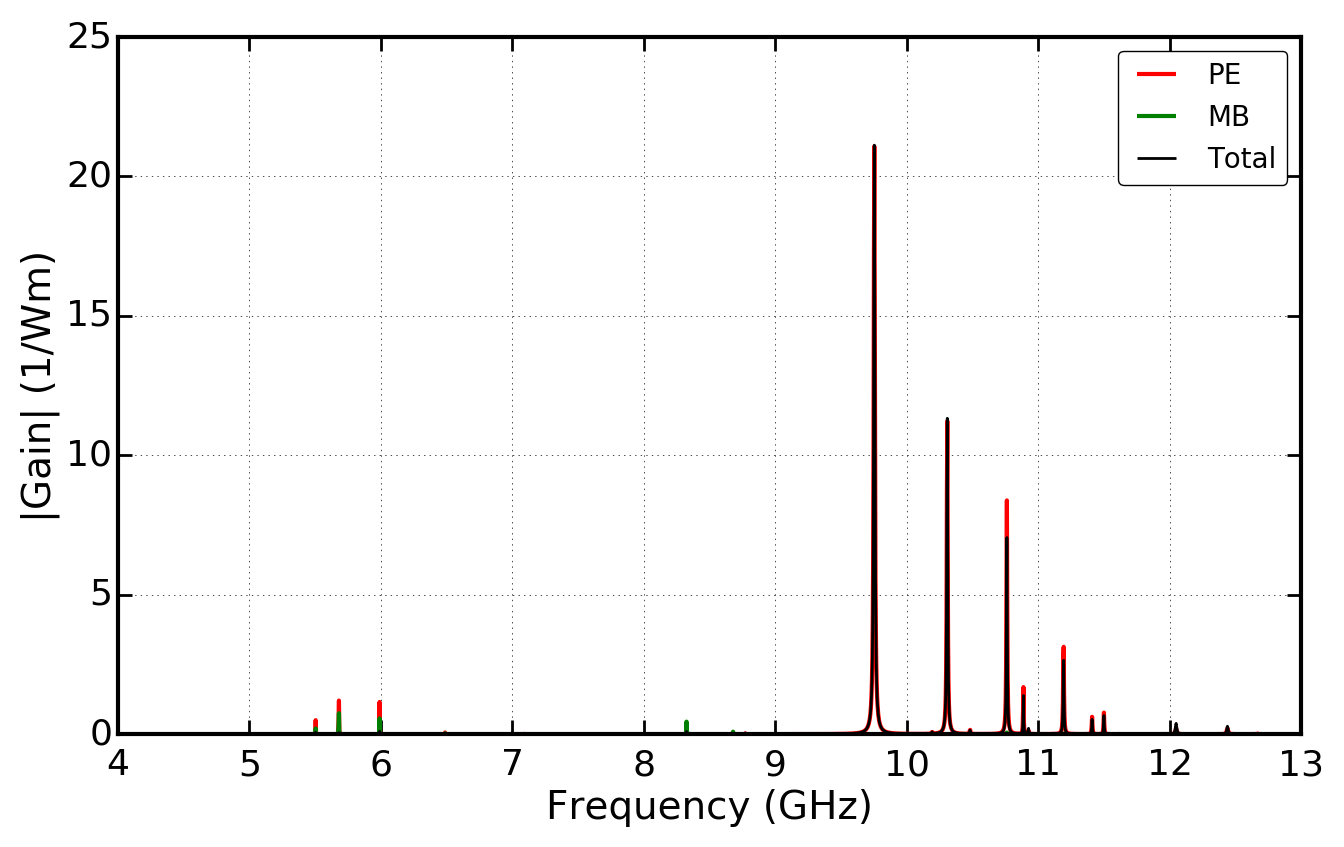
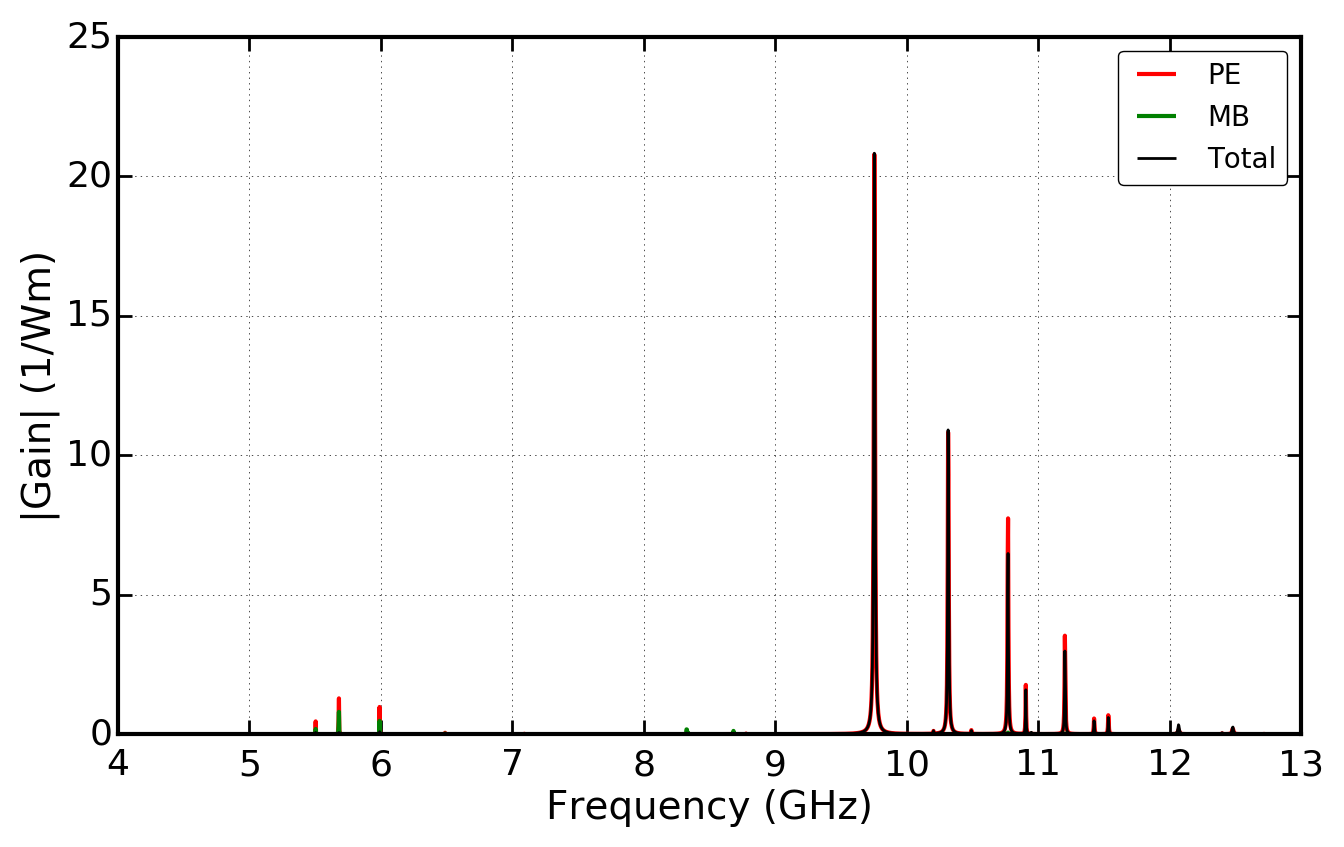
Almost completed lit examples.

Changed region(s): [[0.6875, 0.5525, 0.7188, 0.8595], [0.75, 0.7674, 0.8438, 0.8595], [0.625, 0.7367, 0.6562, 0.8595]]

diff --git a/backend/plotting.py b/backend/plotting.py
@@ -116,7 +116,7 @@ def gain_spectra(sim_AC, SBS_gain, SBS_gain_PE, SBS_gain_MB, linewidth_Hz, k_AC,
     else: raise NotImplementedError("Spectrum plotting for limited AC modes not implemented.")
     return_interp_values = interp_values
     if mode_comps:
-        plt.plot(interp_grid, np.abs(interp_values), 'k', linewidth=3, label="Total")
+        plt.plot(interp_grid, np.abs(interp_values), 'b', linewidth=3, label="Total")
         plt.legend(loc=0)
         if freq_min and freq_max:
             plt.xlim(freq_min,freq_max)
@@ -153,7 +153,7 @@ def gain_spectra(sim_AC, SBS_gain, SBS_gain_PE, SBS_gain_MB, linewidth_Hz, k_AC,
                     interp_spectrum = np.interp(interp_grid, freq_list_GHz, gain_list)
                     interp_values += interp_spectrum
             else: raise NotImplementedError("Spectrum plotting for limited AC modes not implemented.")
-            plt.plot(interp_grid, np.abs(10*np.log10(np.exp(abs(interp_values)*6.5e-3))), 'k', linewidth=3, label="Total")
+            plt.plot(interp_grid, np.abs(10*np.log10(np.exp(abs(interp_values)*6.5e-3))), 'b', linewidth=3, label="Total")
             if save_txt:
                 save_array = (interp_grid, 10*np.log10(np.exp(abs(interp_values)*6.5e-3)))
                 np.savetxt('%(pre)sgain_spectra-mode_comps-dB%(add)s-Total.csv' 
@@ -196,7 +196,7 @@ def gain_spectra(sim_AC, SBS_gain, SBS_gain_PE, SBS_gain_MB, linewidth_Hz, k_AC,
     else: raise NotImplementedError("Spectrum plotting for limited AC modes not implemented.")
     plt.plot(interp_grid, np.abs(interp_values_PE), 'r', linewidth=3, label="PE")
     plt.plot(interp_grid, np.abs(interp_values_MB), 'g', linewidth=3, label="MB")
-    plt.plot(interp_grid, np.abs(interp_values), 'k', linewidth=2, label="Total")
+    plt.plot(interp_grid, np.abs(interp_values), 'b', linewidth=2, label="Total")
     plt.legend(loc=0)
     if freq_min and freq_max:
         plt.xlim(freq_min,freq_max)
@@ -226,7 +226,7 @@ def gain_spectra(sim_AC, SBS_gain, SBS_gain_PE, SBS_gain_MB, linewidth_Hz, k_AC,
     if dB:
         plt.figure()
         plt.clf()
-        plt.plot(interp_grid, np.abs(10*np.log10(np.exp(abs(interp_values)*6.5e-3))), 'k', linewidth=3, label="Total")
+        plt.plot(interp_grid, np.abs(10*np.log10(np.exp(abs(interp_values)*6.5e-3))), 'b', linewidth=3, label="Total")
         plt.plot(interp_grid, np.abs(10*np.log10(np.exp(abs(interp_values_PE)*6.5e-3))), 'r', linewidth=3, label="PE")
         plt.plot(interp_grid, np.abs(10*np.log10(np.exp(abs(interp_values_MB)*6.5e-3))), 'g', linewidth=3, label="MB")
         plt.legend(loc=0)

diff --git a/lit_examples/simo-lit_02-Laude-AIPAdv_2013-silicon.py b/lit_examples/simo-lit_02-Laude-AIPAdv_2013-silicon.py
@@ -29,8 +29,8 @@ start = time.time()
 
 # Geometric Parameters - all in nm.
 wl_nm = 1550
-unitcell_x = 7*wl_nm
-unitcell_y = unitcell_x
+unitcell_x = 4*wl_nm
+unitcell_y = unitcell_x*2/3
 inc_a_x = 1500
 inc_a_y = 1000
 inc_shape = 'rectangular'
@@ -58,9 +58,9 @@ n_eff = 3.4
 sim_EM_pump = wguide.calc_EM_modes(num_modes_EM_pump, wl_nm, n_eff=n_eff)
 sim_EM_Stokes = mode_calcs.bkwd_Stokes_modes(sim_EM_pump)
 
-plotting.plt_mode_fields(sim_EM_pump, xlim_min=0.4, xlim_max=0.4, ivals=[0],
-                         ylim_min=0.4, ylim_max=0.4, EM_AC='EM_E', 
-                         prefix_str=prefix_str, pdf_png='png')
+# plotting.plt_mode_fields(sim_EM_pump, xlim_min=0.2, xlim_max=0.2, ivals=[0],
+#                          ylim_min=0.2, ylim_max=0.2, EM_AC='EM_E', 
+#                          prefix_str=prefix_str, pdf_png='png')
 
 # Print the wavevectors of EM modes.
 print('k_z of EM modes \n', np.round(np.real(sim_EM_pump.Eig_values), 4))
@@ -76,7 +76,7 @@ shift_Hz = 31e9
 # Calculate Acoustic modes.
 sim_AC = wguide.calc_AC_modes(num_modes_AC, k_AC, EM_sim=sim_EM_pump, shift_Hz=shift_Hz)
 
-plotting.plt_mode_fields(sim_AC, EM_AC='AC', prefix_str=prefix_str, pdf_png='png')
+# plotting.plt_mode_fields(sim_AC, EM_AC='AC', prefix_str=prefix_str, pdf_png='png')
 
 # Print the frequencies of AC modes.
 print('Freq of AC modes (GHz) \n', np.round(np.real(sim_AC.Eig_values)*1e-9, 4))
@@ -91,7 +91,7 @@ SBS_gain, SBS_gain_PE, SBS_gain_MB, linewidth_Hz, Q_factors, alpha = integration
 freq_min = 20  # GHz
 freq_max = 45  # GHz
 plotting.gain_spectra(sim_AC, SBS_gain, SBS_gain_PE, SBS_gain_MB, linewidth_Hz, k_AC,
-    EM_ival_pump, EM_ival_Stokes, AC_ival, freq_min=freq_min, freq_max=freq_max)
+    EM_ival_pump, EM_ival_Stokes, AC_ival, freq_min=freq_min, freq_max=freq_max, dB=True)
 
 end = time.time()
 print("\n Simulation time (sec.)", (end - start))

diff --git a/lit_examples/simo-lit_03-Beugnot-NatComm_2014.py b/lit_examples/simo-lit_03-Beugnot-NatComm_2014.py
@@ -30,7 +30,7 @@ num_cores = 5
 
 # Geometric Parameters - all in nm.
 wl_nm = 1550
-unitcell_x = 5*wl_nm
+unitcell_x = 4*wl_nm
 unitcell_y = unitcell_x
 inc_shape = 'circular'
 
@@ -60,7 +60,7 @@ def modes_n_gain(inc_a_x):
     wguide = objects.Struct(unitcell_x,inc_a_x,unitcell_y,inc_a_y,inc_shape,
                             material_bkg=materials.Vacuum,
                             material_a=materials.Si_2016_Smith,
-                            lc_bkg=3, lc2=2000.0, lc3=1000.0)
+                            lc_bkg=4, lc2=2000.0, lc3=1000.0)
 
     sim_EM_pump = wguide.calc_EM_modes(num_modes_EM_pump, wl_nm, n_eff=n_eff)
     sim_EM_Stokes = mode_calcs.bkwd_Stokes_modes(sim_EM_pump)
@@ -89,7 +89,7 @@ for w, width_interp in enumerate(width_objs):
 
 fig = plt.figure()
 ax1 = fig.add_subplot(1,1,1)
-blah = ax1.matshow(gain_array, aspect='auto', interpolation = 'none')
+blah = ax1.matshow(gain_array, aspect='auto', interpolation='none')
 
 num_xticks = 5
 num_yticks = 5
@@ -101,7 +101,7 @@ ax1.set_yticklabels(["%4.0f" % i for i in np.linspace(freq_min,freq_max,num_ytic
 
 plt.xlabel(r'Width ($\mu m$)')
 plt.ylabel('Frequency (GHz)')
-plt.savefig('gain-width_scan.pdf')
+plt.savefig('lit_03-gain-width_scan.pdf')
 plt.close()
 
 end = time.time()

diff --git a/lit_examples/simo-lit_01-Laude-AIPAdv_2013-silica.py b/lit_examples/simo-lit_01-Laude-AIPAdv_2013-silica.py
@@ -57,9 +57,9 @@ n_eff = 1.3
 sim_EM_pump = wguide.calc_EM_modes(num_modes_EM_pump, wl_nm, n_eff=n_eff)
 sim_EM_Stokes = mode_calcs.bkwd_Stokes_modes(sim_EM_pump)
 
-plotting.plt_mode_fields(sim_EM_pump, xlim_min=0.4, xlim_max=0.4, ivals=[0],
-                         ylim_min=0.4, ylim_max=0.4, EM_AC='EM_E', 
-                         prefix_str=prefix_str, pdf_png='png')
+# plotting.plt_mode_fields(sim_EM_pump, xlim_min=0.4, xlim_max=0.4, ivals=[0],
+#                          ylim_min=0.4, ylim_max=0.4, EM_AC='EM_E', 
+#                          prefix_str=prefix_str, pdf_png='png')
 
 # Print the wavevectors of EM modes.
 print('k_z of EM modes \n', np.round(np.real(sim_EM_pump.Eig_values), 4))
@@ -91,7 +91,7 @@ freq_min = 4  # GHz
 freq_max = 13  # GHz
 plotting.gain_spectra(sim_AC, SBS_gain, SBS_gain_PE, SBS_gain_MB, linewidth_Hz, k_AC,
     EM_ival_pump, EM_ival_Stokes, AC_ival, freq_min=freq_min, freq_max=freq_max,
-    prefix_str=prefix_str)
+    prefix_str=prefix_str, dB=True)
 
 # Construct the SBS gain spectrum, built from Lorentzian peaks of the individual modes.
 freq_min = 9.5  # GHz

diff --git a/lit_examples/simo-lit_09-Morrison-Optica_2017.py b/lit_examples/simo-lit_09-Morrison-Optica_2017.py
@@ -1,6 +1,8 @@
-""" Calculate the backward SBS gain for modes in a
-    chalcogenide rib waveguide on a Si slab, 
-    coated in SiO2, surrounded in air.
+""" Replicating the results of
+    Compact Brillouin devices through hybrid 
+    integration on Silicon
+    Morrison et al.
+    http://arxiv.org/abs/1702.05233  
 """
 
 import time
@@ -116,6 +118,14 @@ masked = np.ma.masked_inside(SBS_gain[EM_ival_pump,EM_ival_Stokes,:], 0, thresho
 print("\n SBS_gain PE contribution \n", masked_PE)
 print("SBS_gain MB contribution \n", masked_MB)
 print("SBS_gain total \n", masked)
+
+
+# Construct the SBS gain spectrum, built from Lorentzian peaks of the individual modes.
+freq_min = 7.2  # GHz
+freq_max = 8.1  # GHz
+plotting.gain_spectra(sim_AC, SBS_gain, SBS_gain_PE, SBS_gain_MB, linewidth_Hz, k_AC,
+    EM_ival_pump, EM_ival_Stokes, AC_ival, freq_min=freq_min, freq_max=freq_max,
+    prefix_str=prefix_str)
 
 end = time.time()
 print("\n Simulation time (sec.)", (end - start))

diff --git a/lit_examples/simo-lit_06_2-Florez-NatComm_2016-d1160nm.py b/lit_examples/simo-lit_06_2-Florez-NatComm_2016-d1160nm.py
@@ -91,6 +91,13 @@ plotting.gain_spectra(sim_AC, SBS_gain, SBS_gain_PE, SBS_gain_MB, linewidth_Hz, 
     EM_ival_pump, EM_ival_Stokes, AC_ival, freq_min=freq_min, freq_max=freq_max,
     prefix_str=prefix_str)
 
+# Construct the SBS gain spectrum, built from Lorentzian peaks of the individual modes.
+freq_min = 5.2  # GHz
+freq_max = 5.7  # GHz
+plotting.gain_spectra(sim_AC, SBS_gain, SBS_gain_PE, SBS_gain_MB, linewidth_Hz, k_AC,
+    EM_ival_pump, EM_ival_Stokes, AC_ival, freq_min=freq_min, freq_max=freq_max,
+    prefix_str=prefix_str, suffix_str='_zoom')
+
 end = time.time()
 print("\n Simulation time (sec.)", (end - start))
 

diff --git a/docs/source/tutorial.rst b/docs/source/tutorial.rst
@@ -368,13 +368,13 @@ We note the particular importance of examples 5-8 for they include experimental 
    Fundamental optical mode fields.
 
 
-.. figure:: ../../lit_examples/lit_01-fields/AC_field_4.png.png
+.. figure:: ../../lit_examples/lit_01-fields/AC_field_4.png
    :scale: 50 %
    
    High gain acoustic mode, marked as C in paper.
 
 
-.. figure:: ../../lit_examples/lit_01-fields/AC_field_55.png.png
+.. figure:: ../../lit_examples/lit_01-fields/AC_field_55.png
    :scale: 50 %
    
    High gain acoustic mode, marked as D in paper.
@@ -385,6 +385,12 @@ We note the particular importance of examples 5-8 for they include experimental 
    
    Gain spectra showing gain due to photoelastic effec, gain due to moving boundary effect, and total gain.
 
+
+.. figure:: ../../lit_examples/lit_01-gain_spectra-MB_PE_comps-dB.png
+   :scale: 50 %
+   
+   Gain spectra in dB.
+   
 
 .. figure:: ../../lit_examples/lit_01-gain_spectra-MB_PE_comps_zoom.png
    :scale: 50 %
@@ -397,6 +403,24 @@ We note the particular importance of examples 5-8 for they include experimental 
 
 .. literalinclude:: ../../lit_examples/simo-lit_02-Laude-AIPAdv_2013-silicon.py
     :lines: 0-
+
+
+.. figure:: ../../lit_examples/lit_02-fields/AC_field_4.png
+   :scale: 50 %
+   
+   High gain acoustic mode, marked as G in paper.
+
+
+.. figure:: ../../lit_examples/lit_02-gain_spectra-MB_PE_comps.png
+   :scale: 50 %
+   
+   Gain spectra showing gain due to photoelastic effec, gain due to moving boundary effect, and total gain.
+
+
+.. figure:: ../../lit_examples/lit_02-gain_spectra-MB_PE_comps-dB.png
+   :scale: 50 %
+   
+   Gain spectra in dB.
 
 
 2014 - Beugnot - Nat Comm - BSBS - Tapered Fibre - Scanning Widths
@@ -413,8 +437,8 @@ We note the particular importance of examples 5-8 for they include experimental 
     :lines: 0-
 
 
-2015 - Van Laer - New J Phys - FSBF - Waveguide on a Pedestal
-,,,,,,,,,,,,,,,,,,,,,,,,,,,,,,,,,,,,,,,,,,,,,,,,,,,,,,,,,,,,,,,
+2015 - Van Laer - New J Phys - FSBF - Waveguide without Pedestal
+,,,,,,,,,,,,,,,,,,,,,,,,,,,,,,,,,,,,,,,,,,,,,,,,,,,,,,,,,,,,,,,,,,
 
 .. literalinclude:: ../../lit_examples/simo-lit_05-Van_Laer-NJP_2015.py
     :lines: 0-
@@ -426,7 +450,7 @@ We note the particular importance of examples 5-8 for they include experimental 
    Fundamental optical mode fields.
 
 
-.. figure:: ../../lit_examples/lit_05-fields/AC_field_6.png.png
+.. figure:: ../../lit_examples/lit_05-fields/AC_field_6.png
    :scale: 50 %
    
    Dominant high gain acoustic mode.
@@ -469,7 +493,13 @@ We note the particular importance of examples 5-8 for they include experimental 
 .. figure:: ../../lit_examples/lit_06_2-gain_spectra-MB_PE_comps.png
    :scale: 50 %
    
-   Gain spectra of NW diameter 1160 nm, showing cancellation as in Fig. 4 of paper.
+   Gain spectra of NW diameter 1160 nm, as in Fig. 4 of paper.
+
+
+.. figure:: ../../lit_examples/lit_06_2-gain_spectra-MB_PE_comps_zoom.png
+   :scale: 50 %
+   
+   Gain spectra of NW diameter 1160 nm, showing near perfect cancellation at 5.4 GHz.
 
 
 
